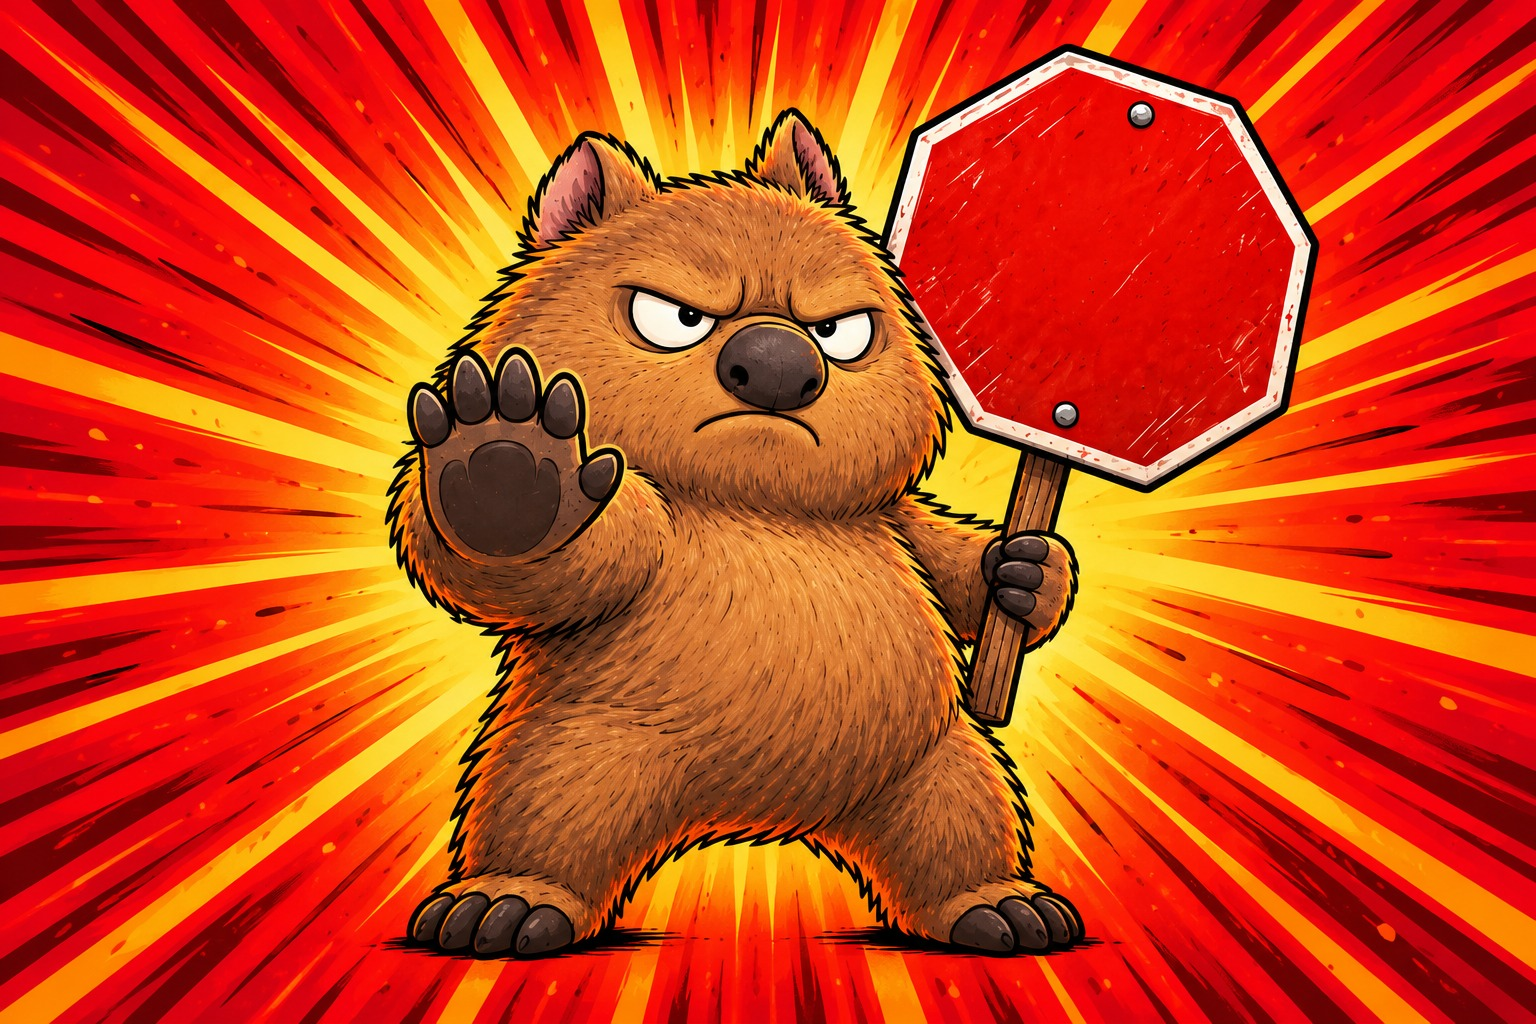
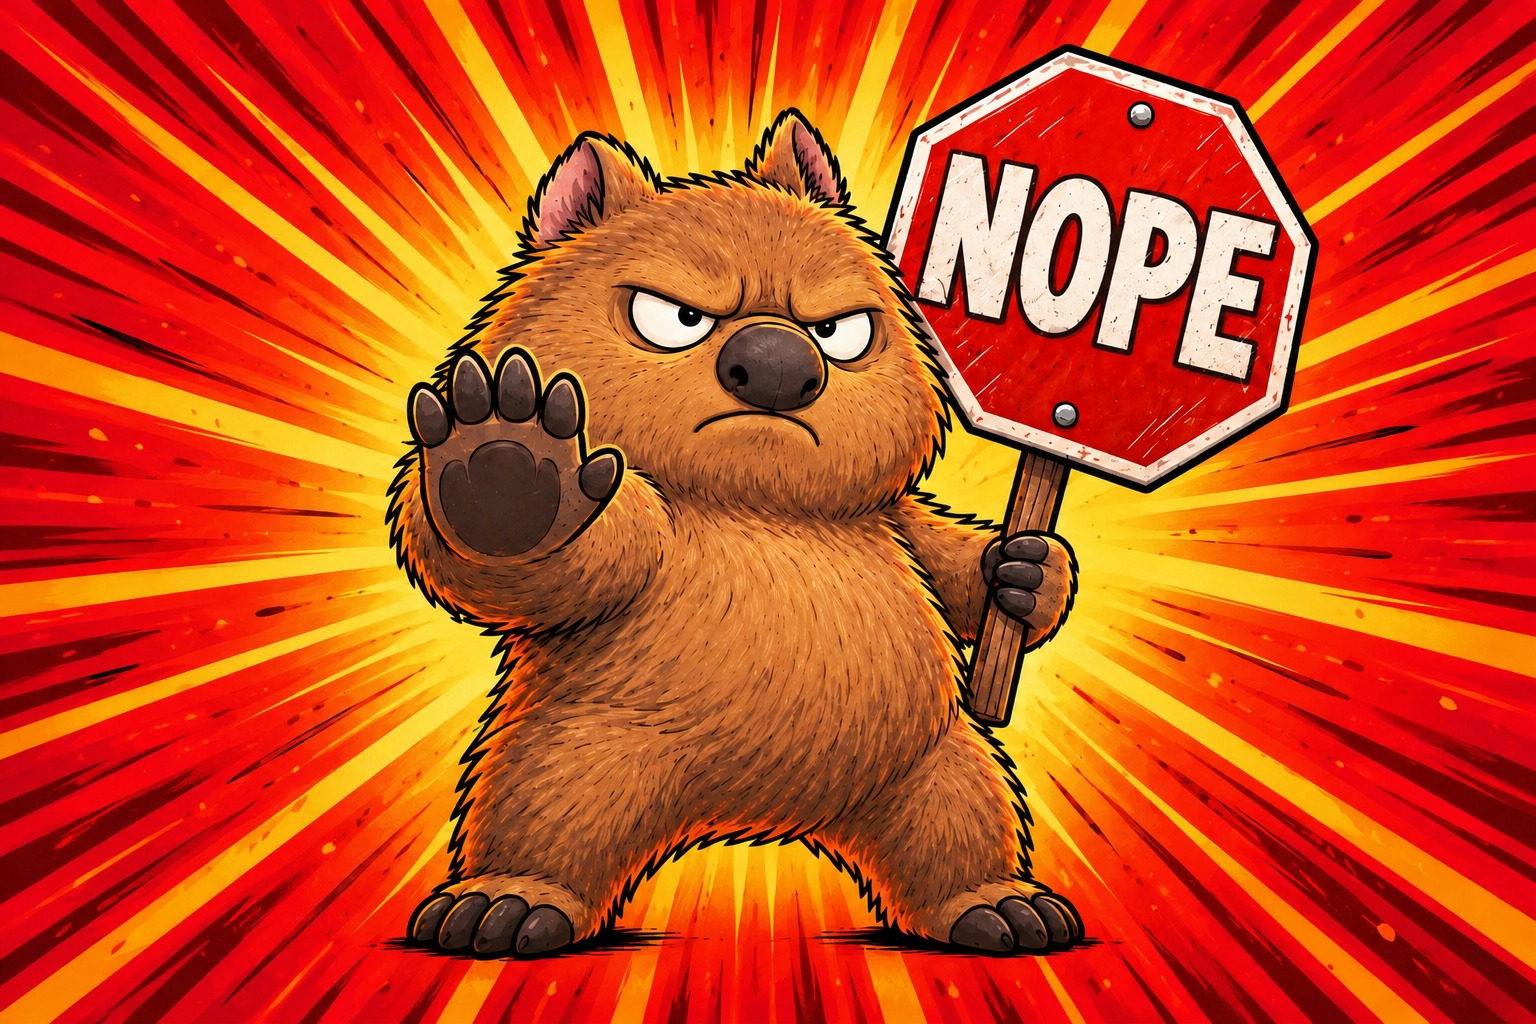
Nieuwe Nope-tekening met de tekst al op het bord; losse tekst eroverheen weg
Claude-Session: https://claude.ai/code/session_01PFkz3mkhyNLrTZMqtyQZkE

diff --git a/index.html b/index.html
@@ -80,7 +80,6 @@ button:focus-visible,input:focus-visible,summary:focus-visible{outline:3px solid
 .card .ban span{font-family:var(--f-display);font-size:var(--ns);line-height:1.02;text-align:center}
 .card .art{position:relative;height:154px;flex:none;border:2.5px solid #1E120B;border-radius:10px;overflow:hidden;background:#3a2a1e}
 .card .art img{width:100%;height:100%;object-fit:cover;display:block}
-.card .art .sign{position:absolute;left:72.6%;top:28.2%;transform:translate(-50%,-50%) rotate(-11deg);font-family:var(--f-display);font-size:15.5px;line-height:1;color:#fff;letter-spacing:.04em;text-shadow:0 1px 0 rgba(60,0,0,.45)}
 .card .txt{flex:1;background:var(--paper);border:2.5px solid #1E120B;border-radius:10px;padding:6px 10px;display:flex;align-items:center;justify-content:center;text-align:center;font-weight:800;font-size:var(--ts);line-height:1.28}
 .back{width:250px;height:350px;border:4px solid var(--cardink);border-radius:20px;background:#1E120B;padding:8px;box-shadow:var(--card-shadow)}
 .back .in{height:100%;border-radius:12px;border:2.5px solid var(--paper);background:#D63B1F url(img/back.svg) center/cover;display:flex;flex-direction:column;align-items:center;justify-content:center;gap:12px}
@@ -1345,7 +1344,7 @@ function cardHTML(t,s,cnt){
   const ns=n<=10?27:n<=14?24:n<=17?22:n<=20?19:17.5, ts=d.text.length>100?12.5:14;
   return `<div class="cbox" style="--s:${s}" role="img" aria-label="${esc(d.title)}: ${esc(d.text)}"><div class="card" style="--cc:${d.color};--ns:${ns}px;--ts:${ts}px">
     <div class="ban"><span>${esc(d.title)}</span></div>
-    <div class="art"><img src="${SRC(`img/${t}.webp`)}" alt="" loading="lazy">${t==='nope'?'<span class="sign">NOPE</span>':''}</div>
+    <div class="art"><img src="${SRC(`img/${t}.webp`)}" alt="" loading="lazy"></div>
     <div class="txt">${esc(d.text)}</div>${cnt>1?`<span class="cnt" aria-label="${cnt} in je hand">${cnt}×</span>`:''}</div></div>`;
 }
 const backHTML=s=>`<div class="cbox" style="--s:${s}"><div class="back"><div class="in"><img src="${SRC('icon-192.png')}" alt=""><b>Wombam!</b></div></div></div>`;

diff --git a/sw.js b/sw.js
@@ -1,5 +1,5 @@
 // Wombam! service worker. Verhoog CACHE bij elke nieuwe versie (build.py doet dat vanzelf).
-const CACHE='wombam-v19';
+const CACHE='wombam-v20';
 const EXT='wombam-extern';   // lettertypen en Firebase-software: blijven bewaard bij een nieuwe versie
 const ASSETS=['./','index.html','manifest.webmanifest','icon-192.png','icon-512.png','icon-maskable-512.png','apple-touch-icon.png','favicon.ico','favicon-32.png','img/attack.webp','img/back.svg','img/beard.webp','img/defuse.webp','img/ek.webp','img/face-beard.webp','img/face-future.webp','img/face-melon.webp','img/face-nope.webp','img/face-skip.webp','img/face-taco.webp','img/favor.webp','img/future.webp','img/melon.webp','img/nope.webp','img/potato.webp','img/rainbow.webp','img/shuffle.webp','img/skip.webp','img/star.svg','img/taco.webp'];
 

diff --git a/build.py b/build.py
@@ -29,7 +29,7 @@ SOORTEN = ['ek', 'defuse', 'attack', 'skip', 'shuffle', 'future', 'favor', 'nope
 # Uitsnede van het wombatkopje per tekening (in pixels van een tekening van 1536 x 1024)
 GEZICHTEN = {
     'skip': (680, 30, 1080, 430), 'future': (640, 90, 1040, 490), 'beard': (620, 60, 1100, 540),
-    'melon': (620, 40, 1080, 500), 'nope': (590, 70, 990, 470), 'taco': (640, 20, 1040, 420),
+    'melon': (620, 40, 1080, 500), 'nope': (555, 115, 985, 545), 'taco': (640, 20, 1040, 420),
 }
 
 
